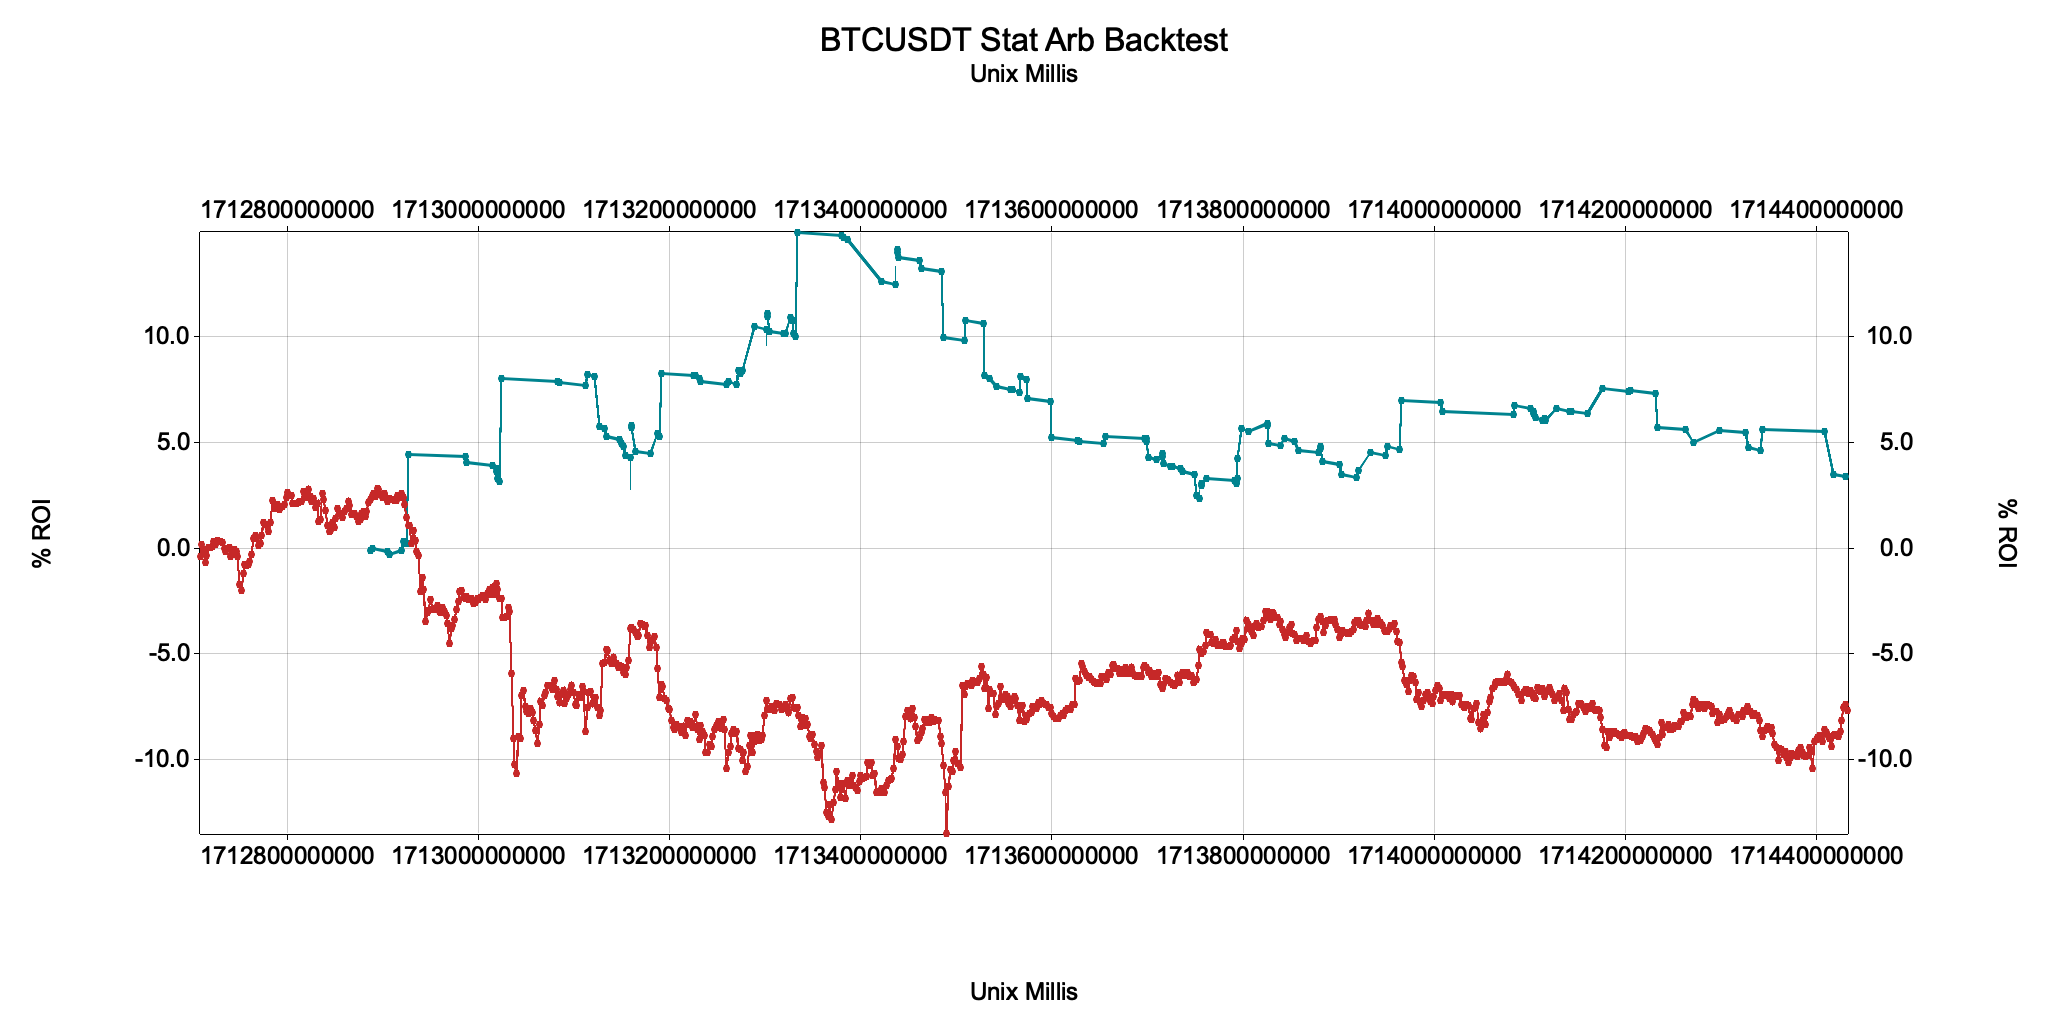
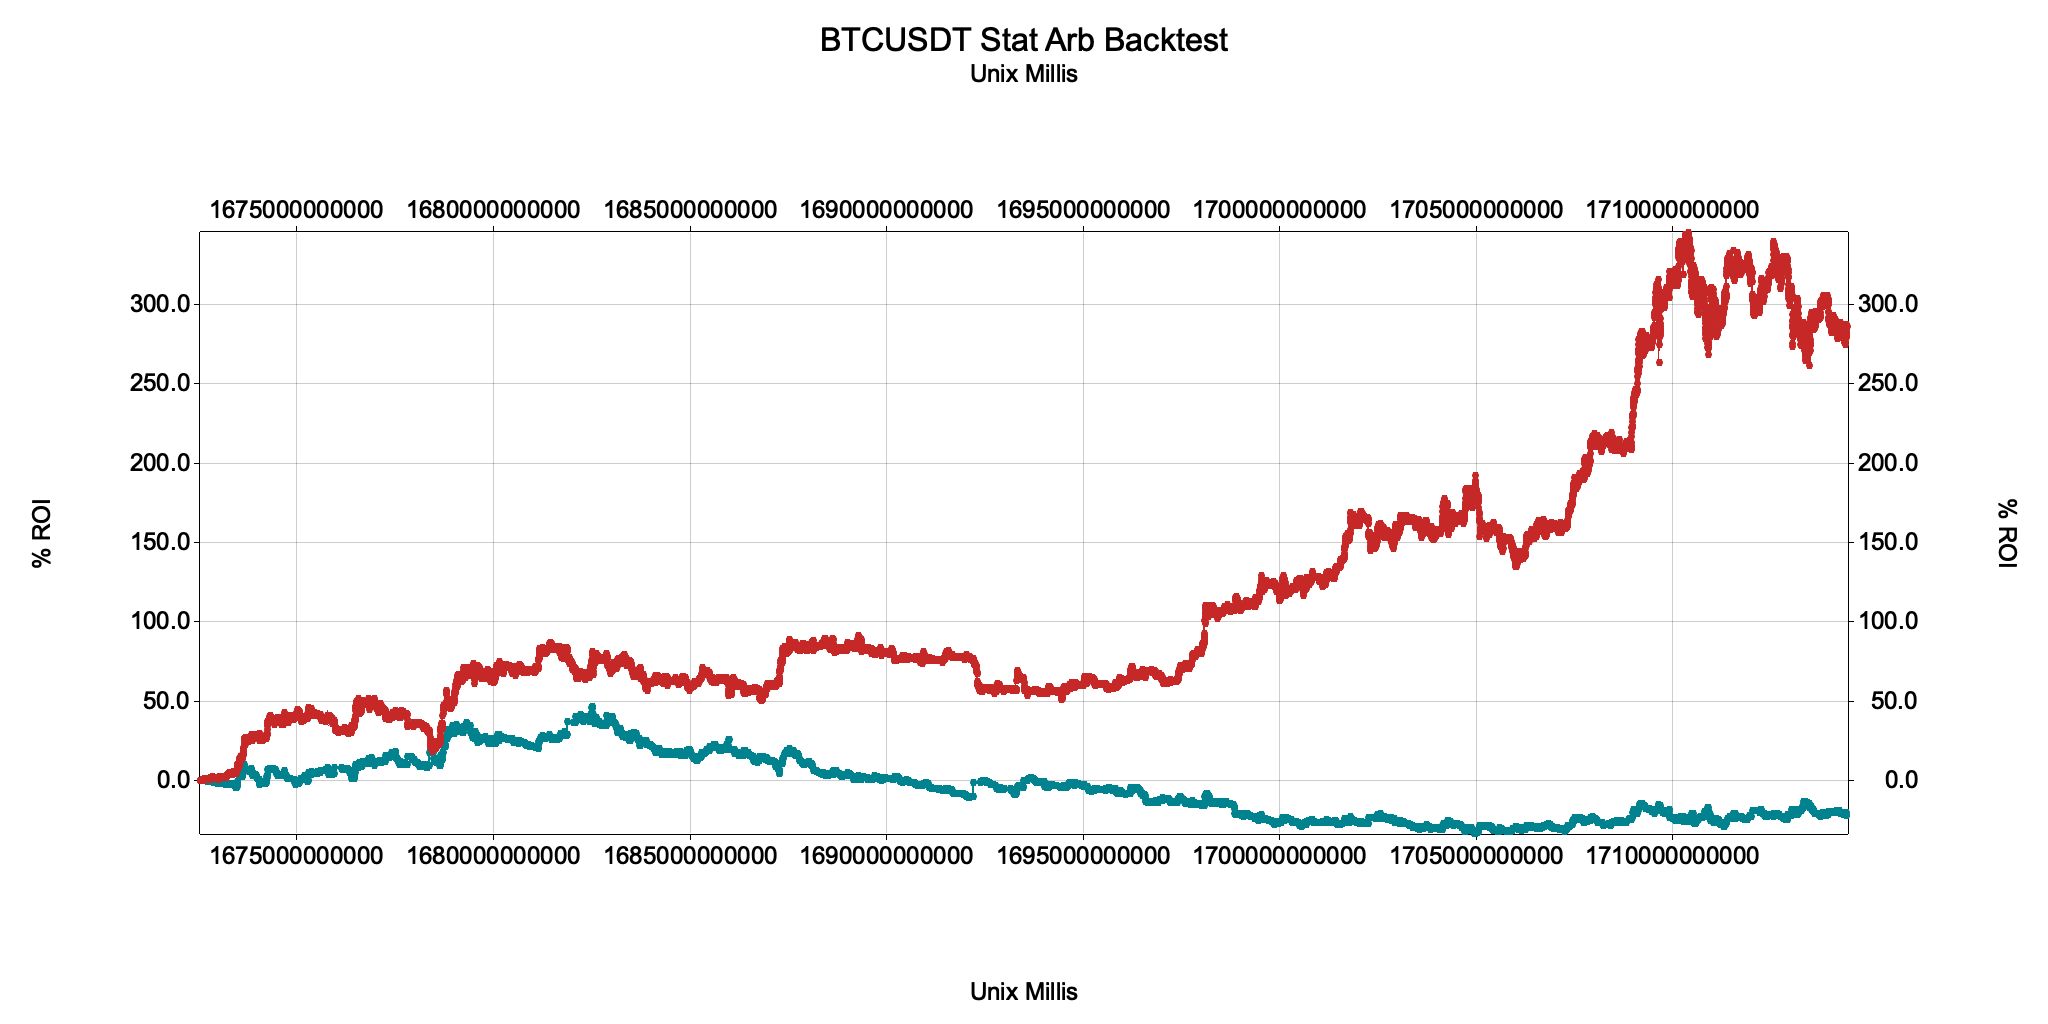
pct per trade graphed

diff --git a/playbook/src/strategies/stat_arb.rs b/playbook/src/strategies/stat_arb.rs
@@ -176,8 +176,8 @@ async fn btc_eth_stat_arb() -> anyhow::Result<()> {
   use std::collections::HashSet;
   dotenv::dotenv().ok();
 
-  // let start_time = Time::new(2023, &Month::from_num(1), &Day::from_num(1), None, None, None);
-  let start_time = Time::new(2024, &Month::from_num(4), &Day::from_num(10), None, None, None);
+  let start_time = Time::new(2023, &Month::from_num(1), &Day::from_num(1), None, None, None);
+  // let start_time = Time::new(2024, &Month::from_num(4), &Day::from_num(10), None, None, None);
   let end_time = Time::new(2024, &Month::from_num(4), &Day::from_num(30), None, None, None);
 
   let capacity = 100;
@@ -236,13 +236,10 @@ async fn btc_eth_stat_arb() -> anyhow::Result<()> {
         "Unix Millis"
       )?;
       
-      let pcts = x_summary.pct_per_trade.data().iter().map(|d| d.y).collect::<Vec<f64>>();
-      let cum_pct_zscores = rolling_zscore(&pcts, 20).unwrap();
-      let data = cum_pct_zscores.iter().enumerate().map(|(i, x)| Data { x: i as i64, y: *x }).collect();
       Plot::plot(
-        vec![data],
-        "stat_arb_btc_zscore.png",
-        "BTCUSDT Stat Arb Z Score Profit",
+        vec![x_summary.pct_per_trade.data().clone()],
+        "stat_arb_btc_trades.png",
+        "BTCUSDT Stat Arb Trades",
         "% ROI",
         "Unix Millis"
       )?;
@@ -265,14 +262,11 @@ async fn btc_eth_stat_arb() -> anyhow::Result<()> {
         "% ROI",
         "Unix Millis"
       )?;
-
-      let pcts = y_summary.pct_per_trade.data().iter().map(|d| d.y).collect::<Vec<f64>>();
-      let cum_pct_zscores = rolling_zscore(&pcts, 20).unwrap();
-      let data = cum_pct_zscores.iter().enumerate().map(|(i, x)| Data { x: i as i64, y: *x }).collect();
+      
       Plot::plot(
-        vec![data],
-        "stat_arb_eth_zscore.png",
-        "ETHUSDT Stat Arb Z Score Profit",
+        vec![y_summary.pct_per_trade.data().clone()],
+        "stat_arb_eth_trades.png",
+        "ETHUSDT Stat Arb Trades",
         "% ROI",
         "Unix Millis"
       )?;
